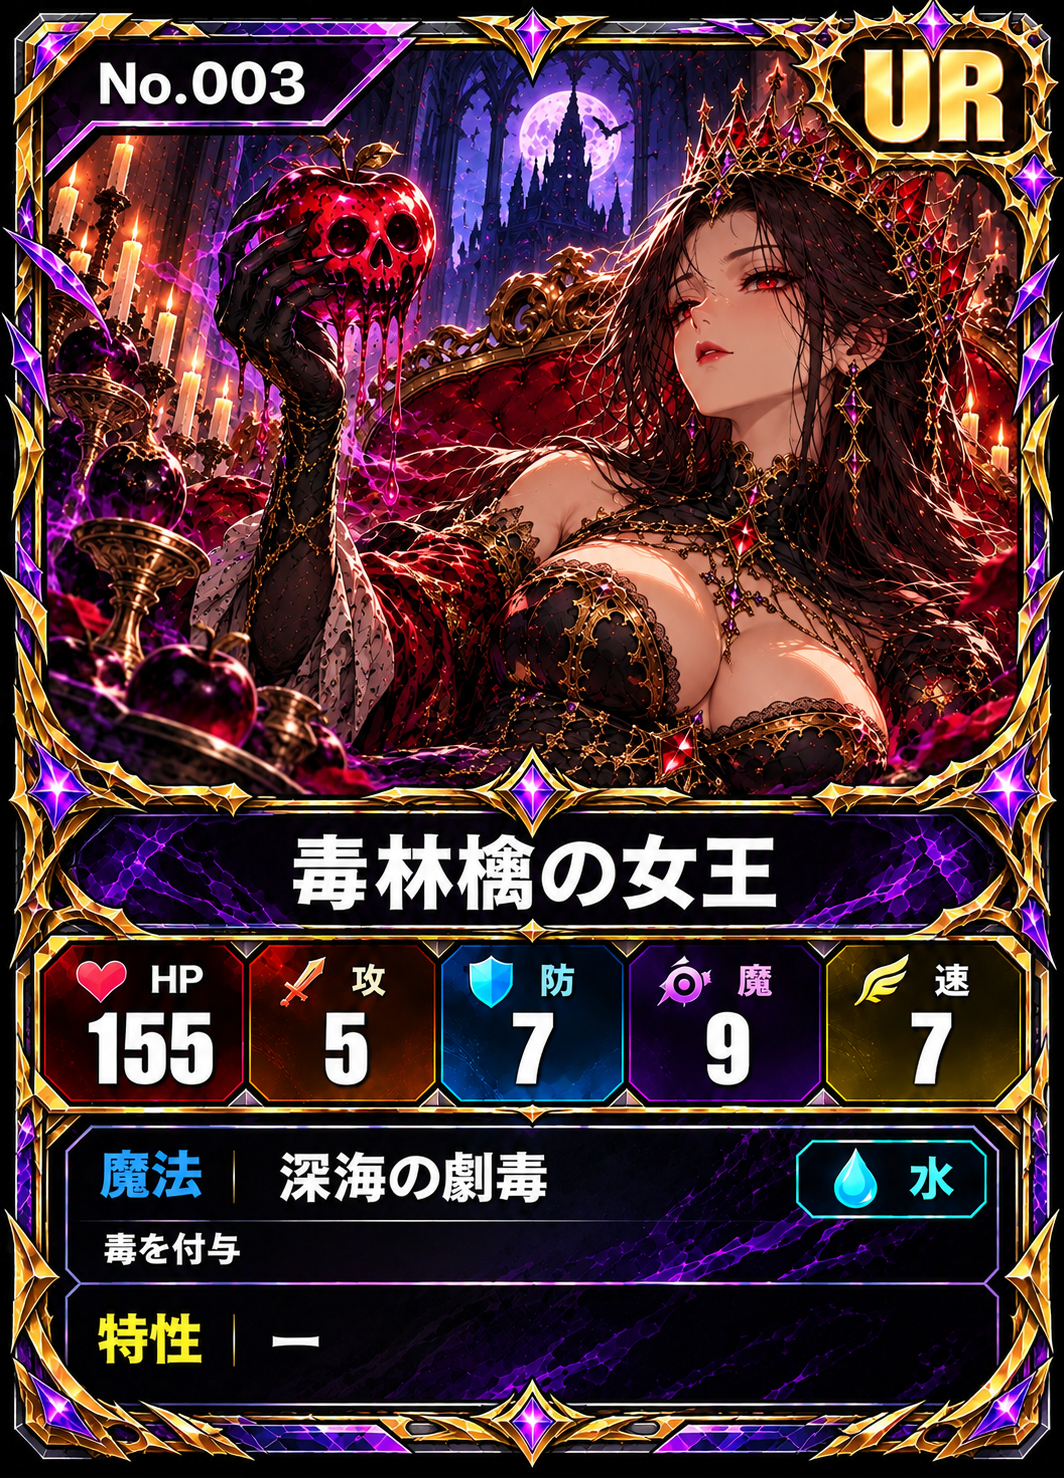
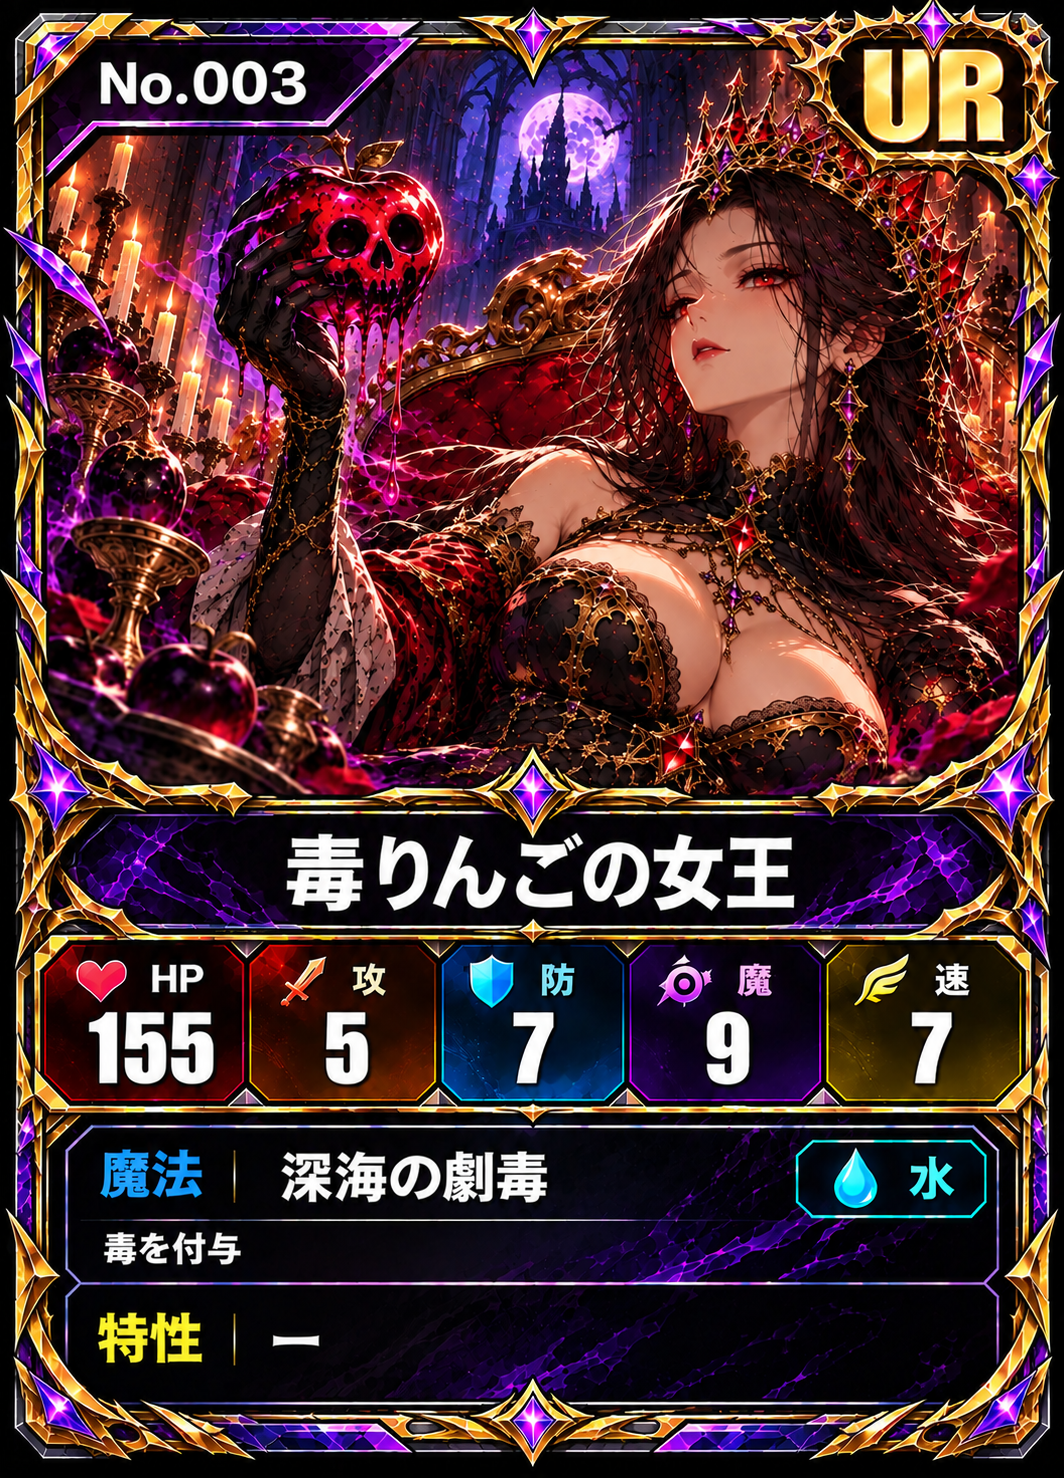
MYTHCLASH: No.003 のカードの絵を企画者の新しい絵（毒りんごの女王）に差しかえ。前の絵は unused/
Claude-Session: https://claude.ai/code/session_01MXithgTc5umkveoyZShZHQ

Changed region(s): [[0.0, 0.0, 1.0, 0.9959], [0.1861, 0.8092, 0.2171, 0.8403]]

diff --git a/design/mythclash/make_cards.py b/design/mythclash/make_cards.py
@@ -24,8 +24,7 @@ FONT = '/usr/share/fonts/opentype/ipafont-gothic/ipag.ttf'
 FIXES = {
     # 特性が「ー」になっていた → カード表の「狩人の一矢」
     1: [(262, 1310, 330, 1352, '狩人の一矢', 268, 1334, 52, 'lm', 2)],
-    # 名前の「檎」の字がちがっていた → 名前の行を まるごと同じ字体で書き直す(字の太さをそろえるため)
-    3: [(280, 826, 792, 918, '毒林檎の女王', 535, 872, 86, 'mm', 2)],
+    # No.003 は 企画者が「毒りんごの女王」と書いた絵に差しかえた(2026-10-27)ので、直す所なし。前の絵と直し方は cards/unused/
 }
 
 os.makedirs(OUT, exist_ok=True)

diff --git a/docs/MYTHCLASH.md b/docs/MYTHCLASH.md
@@ -148,6 +148,7 @@
 - 相手のカードで魔法をまだ使っていないときは、絵の魔法の属性のしるしを「？？？」でおおう（見せてはいけない情報のため）。
 - 確認用ページでは、カードの絵を 360×500 に小さくして入れる（ページの上限のため。100枚そろうと入りきらないので、そのときは考える）。
   - No.003 毒林檎の女王：名前の「檎」の字がちがっていた → 名前の行をまるごと同じ字体で書き直した（企画者「修正して」）。特性「ー」は表どおり（No.003 は特性なしと決めた）。
+    → 企画者が名前を「毒りんごの女王」と書いた新しい絵に差しかえた（前の絵は `design/mythclash/cards/unused/`）。カード表の名前は「毒林檎の女王」のまま（ひらがなにするか企画者に確認中）。
 - 届いたカード：No.001・No.003。
 
 ### 名前を BLOOD TOWER に（2026-10-27）【確定】
